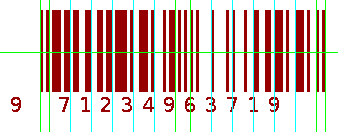
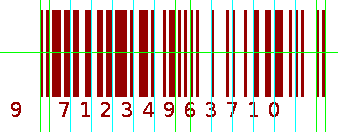
Debugged..

diff --git a/src/barcode/Encode.java b/src/barcode/Encode.java
@@ -119,7 +119,7 @@ public class Encode {
 		// 
 		// Generate final result and return home...
 		//
-		Result r = new Result(binary.toString(), code,protocol.toString(), NO_ERROR);
+		Result r = new Result(binary.toString(), code+checksum,protocol.toString(), NO_ERROR);
 		return r;
 	}
 }

diff --git a/src/Main.java b/src/Main.java
@@ -28,7 +28,7 @@ public class Main {
 		
 		// Encoding demo
 		
-		Result code=Encode.doEncoding("971234963719");
+		Result code=Encode.doEncoding("971234963710");
 	
 		BarcodeRenderer.draw(code);
 		
